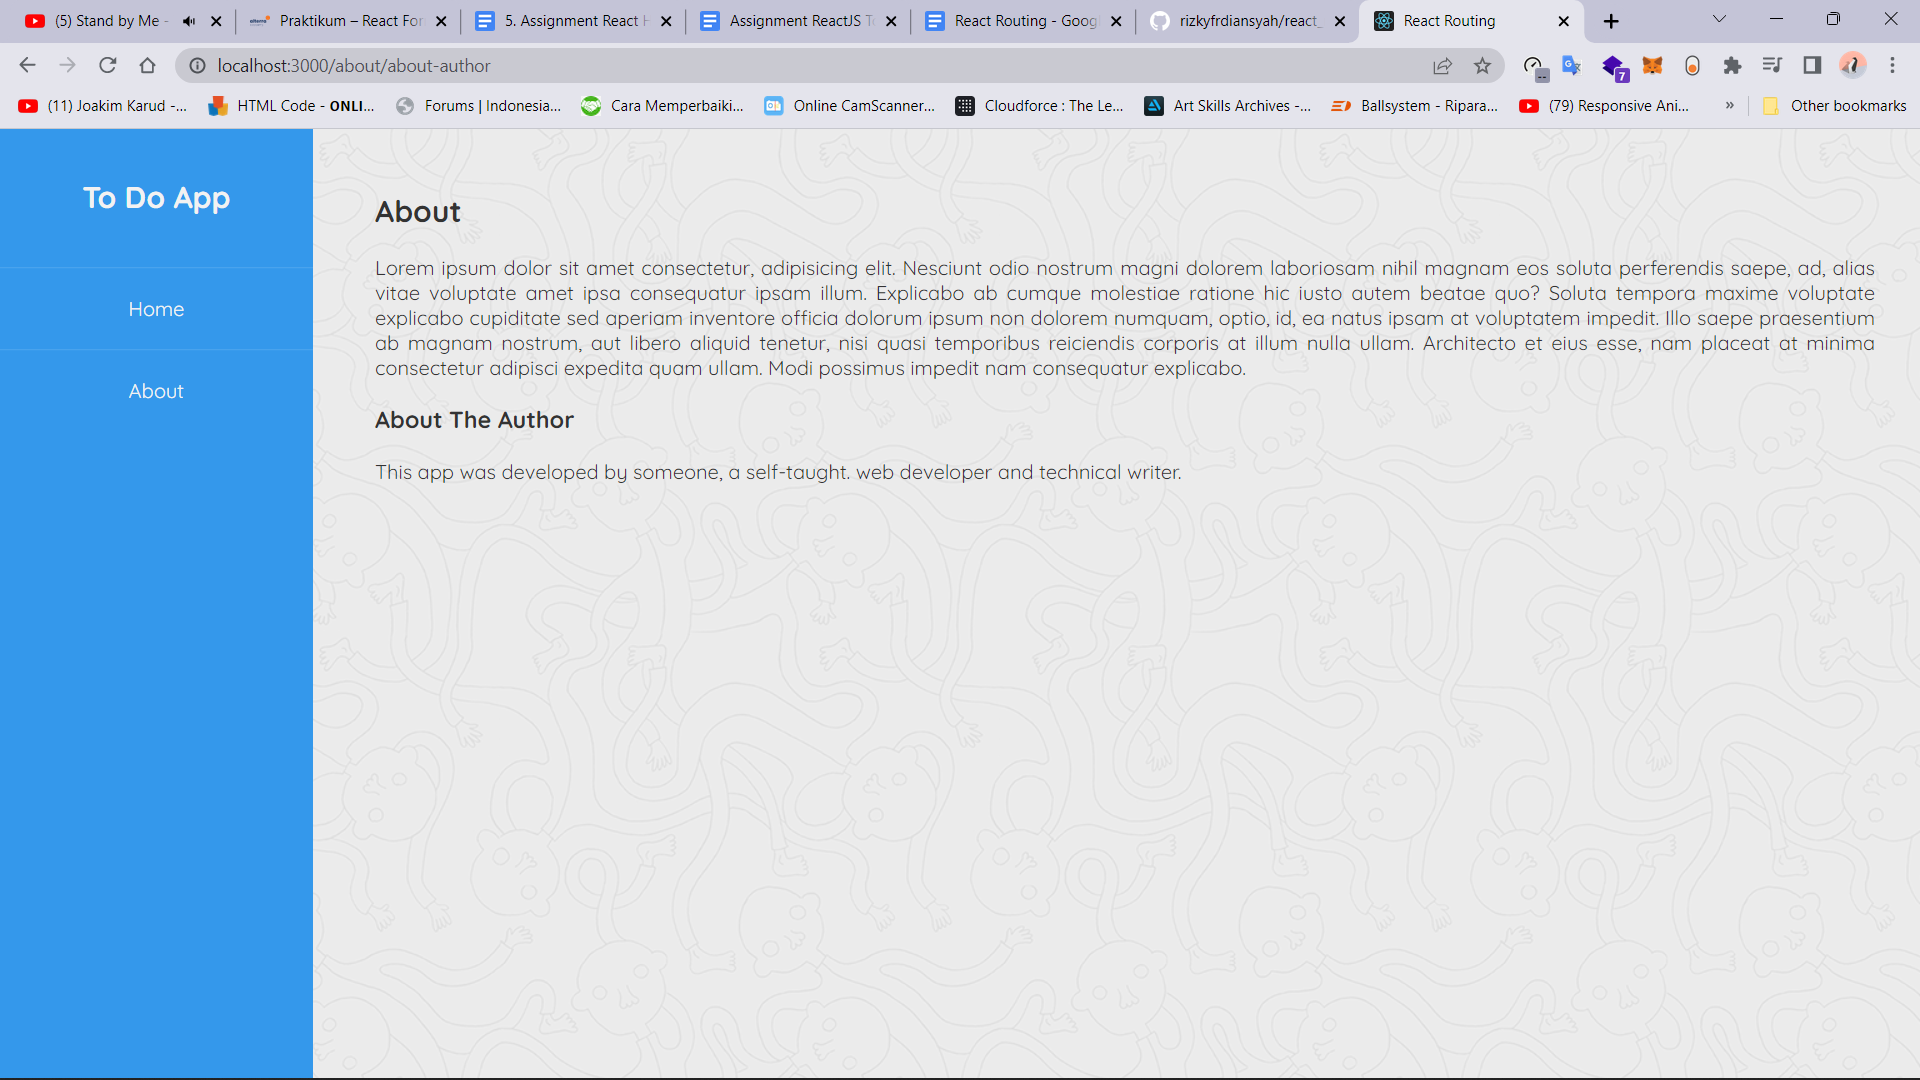
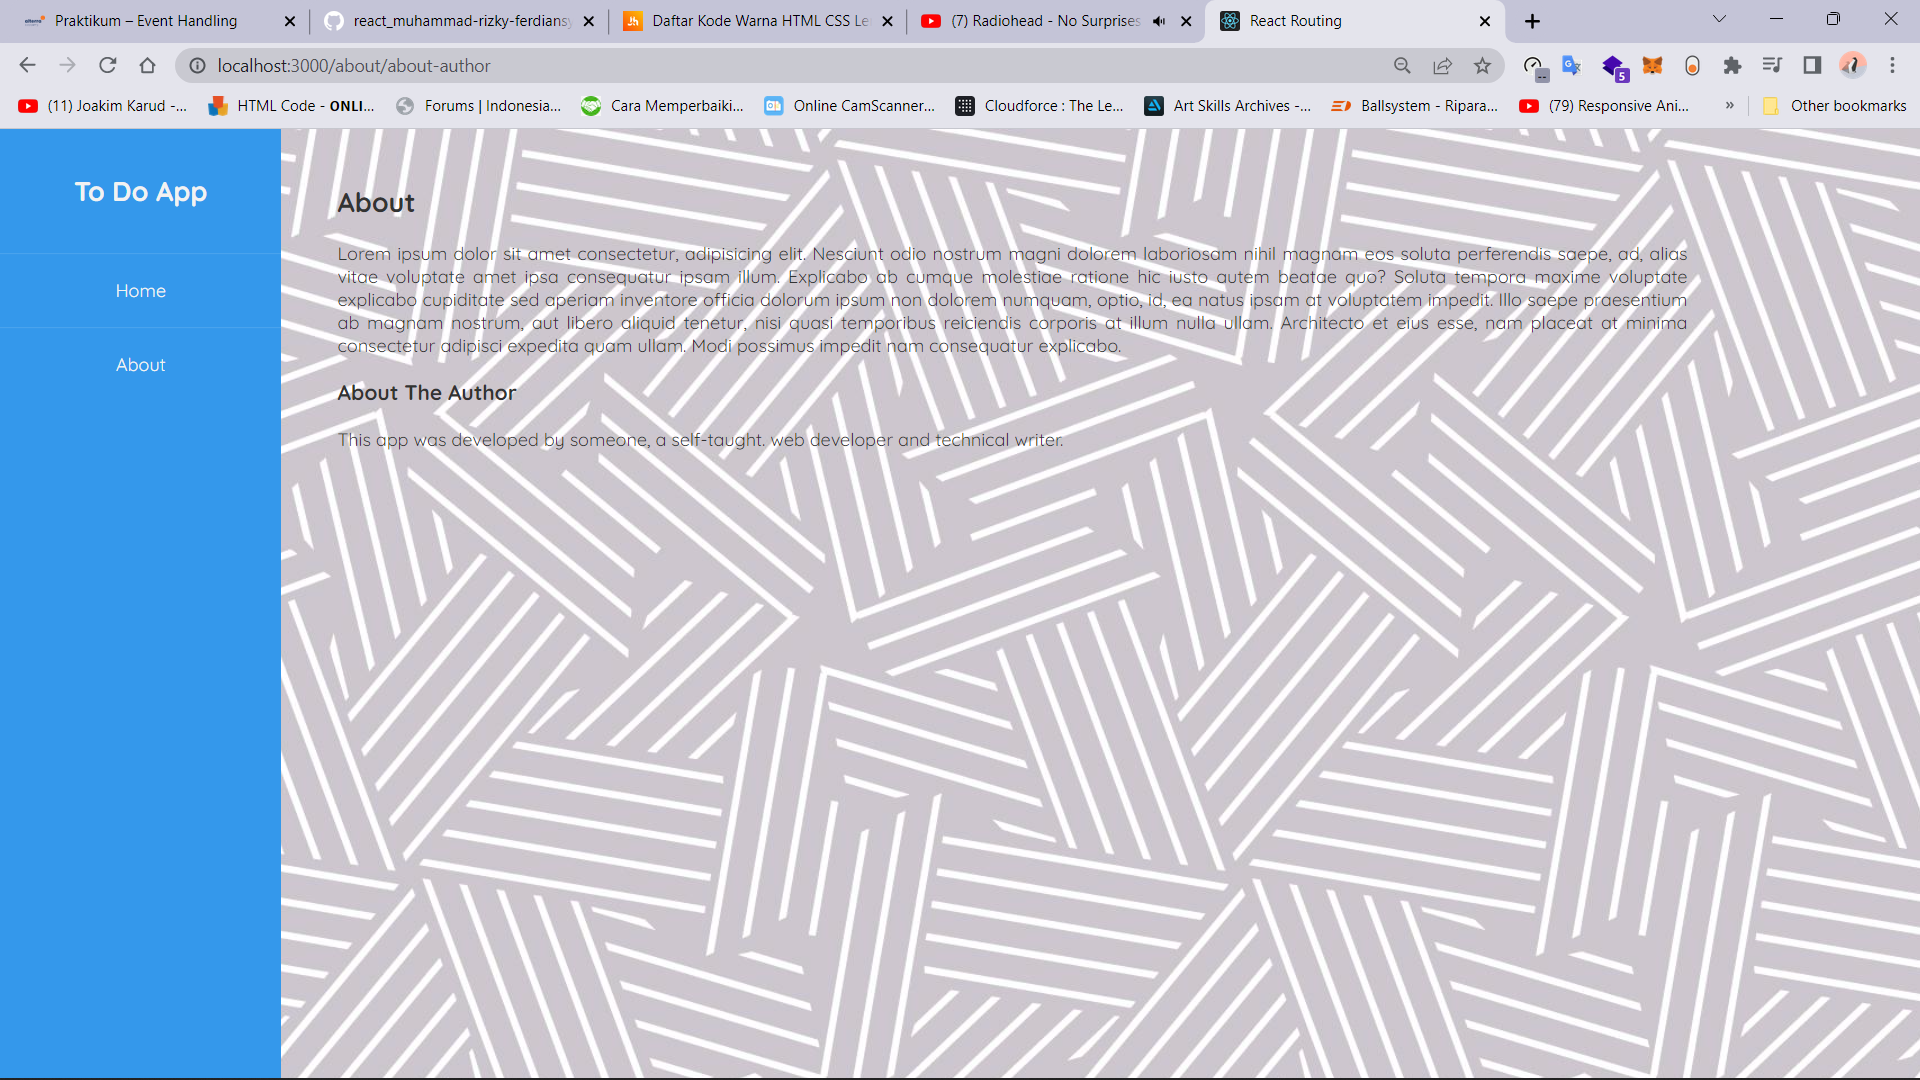
update assignment

diff --git a/15_react-routing/src/index.css b/15_react-routing/src/index.css
@@ -7,14 +7,14 @@
 }
 body {
   margin: 0;
-  background-image: url(../public/assets/sample-pattern.png);
+  background-image: url(../public/assets/5364112.jpg);
   font-family: -apple-system, BlinkMacSystemFont, "Segoe UI", "Roboto", "Oxygen", "Ubuntu", "Cantarell", "Fira Sans", "Droid Sans", "Helvetica Neue", sans-serif;
   -webkit-font-smoothing: antialiased;
   -moz-osx-font-smoothing: grayscale;
 }
 .home .title {
   letter-spacing: 2px;
-  background: linear-gradient(#fbd249, #91c07b, #3498eb);
+  background: linear-gradient(#f07a1f, #266ee3);
   -webkit-background-clip: text;
   -webkit-text-fill-color: transparent;
   font-size: 4rem;

diff --git a/15_react-routing/src/components/ToDoList.js b/15_react-routing/src/components/ToDoList.js
@@ -12,7 +12,7 @@ const ToDoList = ({ data, hapusToDo, handleChange }) => {
               handleChange(todo.id);
             }}
           />
-          <p style={todo.completed ? { textDecoration: "line-through", color: "grey" } : { textDecoration: "none" }}>{todo.title}</p>
+          <p style={todo.completed ? { textDecoration: "line-through", color: "#008B8B" } : { textDecoration: "none" }}>{todo.title}</p>
           <button
             onClick={() => {
               hapusToDo(todo.id);

diff --git a/15_react-routing/public/index.html b/15_react-routing/public/index.html
@@ -21,7 +21,7 @@
       work correctly both with client-side routing and a non-root public URL.
       Learn how to configure a non-root public URL by running `npm run build`.
     -->
-    <title>React Hook</title>
+    <title>React Routing</title>
   </head>
   <body>
     <noscript>You need to enable JavaScript to run this app.</noscript>

diff --git a/15_react-routing/praktikum/README.md b/15_react-routing/praktikum/README.md
@@ -14,23 +14,23 @@ Lanjutkan daftar pekerjaan yang telah kamu kerjakan saat assignment React Hooks 
 
 # TAMPILAN AWAL
 
-![image](../screenshoots/Tampilan%20awal%20.png)
+![image](../screenshoots/Tampilan%20awal%20routing.png)
 
 # TAMPILAN ABOUT
 
-![image](../screenshoots/Tampilan%20about.png)
+![image](../screenshoots/Tampilan%20About.png)
 
 # TAMPILAN ABOUT-APP
 
-![image](../screenshoots/Tampilan%20about-app.png)
+![image](../screenshoots/Tampilan%20About-App.png)
 
 # TAMPILAN ABOUT-AUTHOR
 
-![image](../screenshoots/Tampilan%20about-author.png)
+![image](../screenshoots/Tampilan%20About-Author.png)
 
 # TAMPILAN NOTFOUND
 
-![image](../screenshoots/Tampilan%20notfound.png)
+![image](../screenshoots/Tampilan%20Notfound.png)
 
 # PILGAN
 
